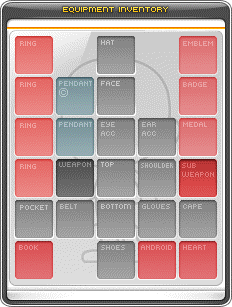
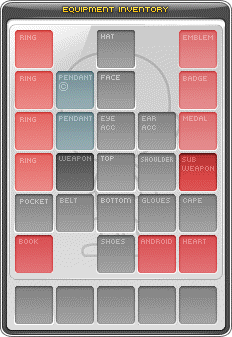
addition of extra slots on flame calc

diff --git a/src/app/Pages/Games/Maplestory/Pages/maplestory-flame-calculator/maplestory-flame-calculator.component.html b/src/app/Pages/Games/Maplestory/Pages/maplestory-flame-calculator/maplestory-flame-calculator.component.html
@@ -113,6 +113,14 @@
                         <th class="hiddenOption"></th>
                         <th class="hiddenOption"></th>
                     </tr>
+                    <div class="extraSlotSpacer"></div>
+                    <tr>
+                        <th longPress (onShortPress)="saveFlame('extra1')" (onLongPress)="loadFlame('extra1')">{{ calculateScore(this.flameData.saveData[characterIndex].extra1) }}</th>
+                        <th longPress (onShortPress)="saveFlame('extra2')" (onLongPress)="loadFlame('extra2')">{{ calculateScore(this.flameData.saveData[characterIndex].extra2) }}</th>
+                        <th longPress (onShortPress)="saveFlame('extra3')" (onLongPress)="loadFlame('extra3')">{{ calculateScore(this.flameData.saveData[characterIndex].extra3) }}</th>
+                        <th longPress (onShortPress)="saveFlame('extra4')" (onLongPress)="loadFlame('extra4')">{{ calculateScore(this.flameData.saveData[characterIndex].extra4) }}</th>
+                        <th longPress (onShortPress)="saveFlame('extra5')" (onLongPress)="loadFlame('extra5')">{{ calculateScore(this.flameData.saveData[characterIndex].extra5) }}</th>
+                    </tr>
                   </table>
             </div>
         </div>

diff --git a/src/app/Pages/Games/Maplestory/Pages/maplestory-flame-calculator/maplestory-flame-calculator.component.ts b/src/app/Pages/Games/Maplestory/Pages/maplestory-flame-calculator/maplestory-flame-calculator.component.ts
@@ -80,7 +80,12 @@ export class MaplestoryFlameCalculatorComponent implements OnInit {
       pendant2: newEmptyFlame,
       face: newEmptyFlame,
       eye: newEmptyFlame,
-      earrings: newEmptyFlame
+      earrings: newEmptyFlame,
+      extra1: newEmptyFlame,
+      extra2: newEmptyFlame,
+      extra3: newEmptyFlame,
+      extra4: newEmptyFlame,
+      extra5: newEmptyFlame
     };
 
     var newSaveDataArray: FlameSaveData[] = [];
@@ -284,5 +289,9 @@ export class MaplestoryFlameCalculatorComponent implements OnInit {
       this.flameData.lukDoubleSecondaryAllStatMultiplier = 10;
       return;
     }
+  }
+
+  test() {
+    console.log("hmm");
   }
 }

diff --git a/src/app/Pages/Games/Maplestory/Pages/maplestory-flame-calculator/maplestory-flame-calculator.component.css b/src/app/Pages/Games/Maplestory/Pages/maplestory-flame-calculator/maplestory-flame-calculator.component.css
@@ -187,12 +187,12 @@ a {
     position: relative;
     margin: 0 auto;
     width: 232px;
-    height: 307px;
+    height: 337px;
 }
 
 .equipScoreGrid {
     position: absolute;
-    top: 33px;
+    top: 27px;
     right: 12px;
     border-spacing: 3px;
 }
@@ -203,6 +203,12 @@ a {
     padding: 0px;
     color: #FFFFFF;
     font-size: 15px;
+    background-color: rgba(0, 255, 0, 0.5);
+}
+
+.extraSlotSpacer{
+    width: 100%;
+    height: 7px;
 }
 
 .hiddenOption {
@@ -218,7 +224,6 @@ a {
 }
 
 .characterNavigationBar a {
-    /* width: 50px; */
     padding: 2px 4px 2px 4px;
     margin: 4px 4px 0px 4px;
     font-size: 18px;

diff --git a/src/app/Pages/Games/Maplestory/Models/flameSaveData.ts b/src/app/Pages/Games/Maplestory/Models/flameSaveData.ts
@@ -19,4 +19,9 @@ export interface FlameSaveData {
     face: Flame;
     eye: Flame;
     earrings: Flame;
+    extra1: Flame;
+    extra2: Flame;
+    extra3: Flame;
+    extra4: Flame;
+    extra5: Flame;
 }
